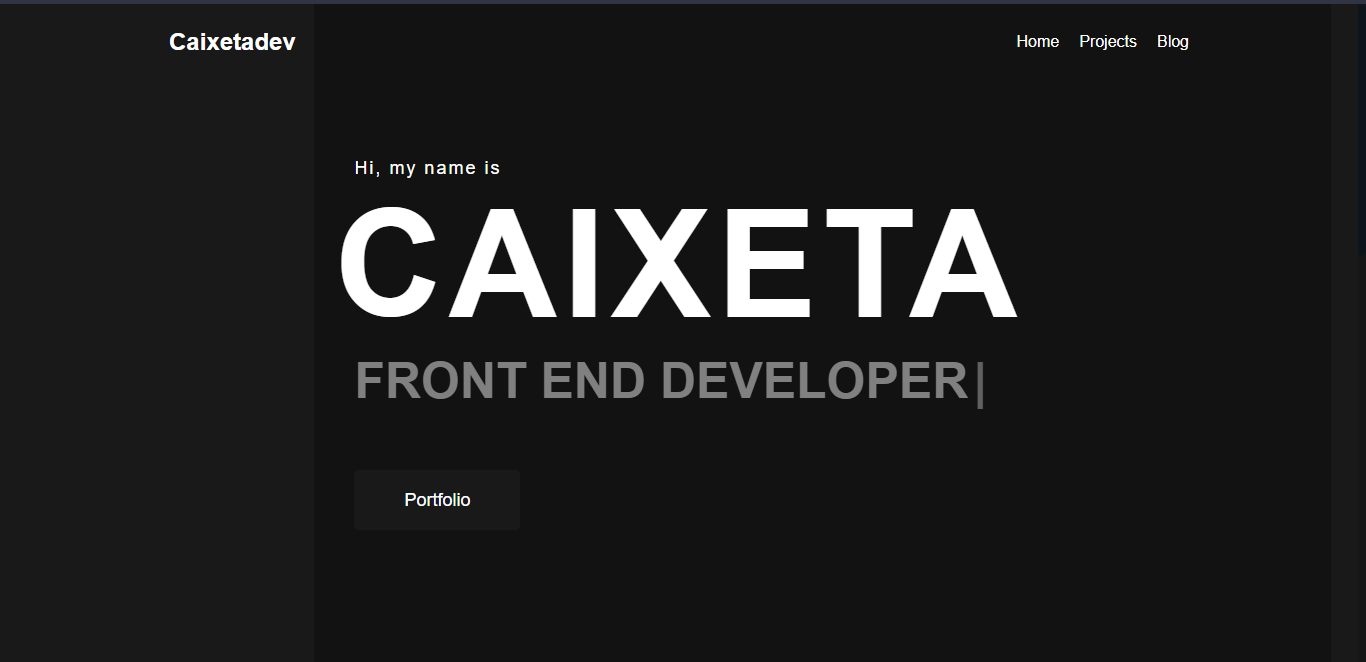
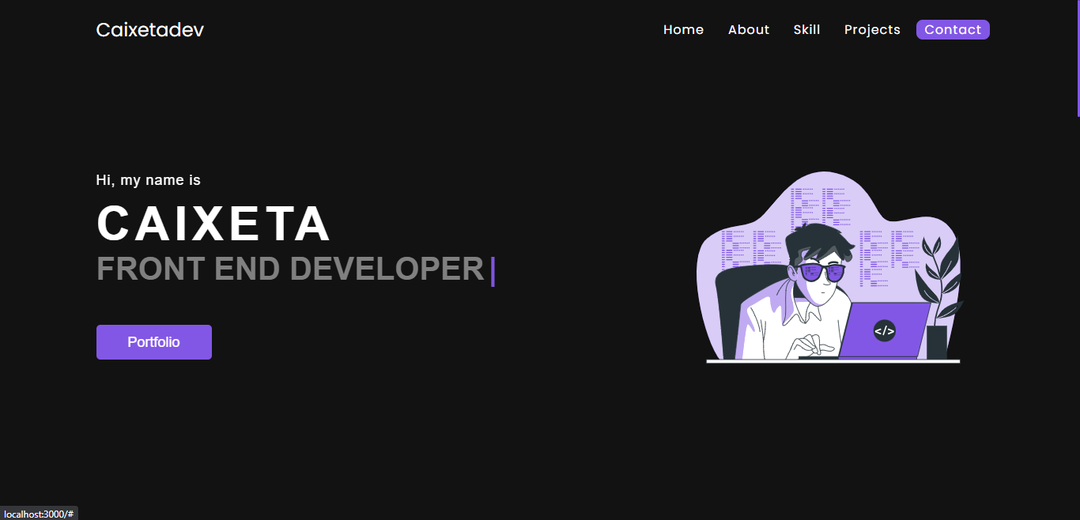
mudando foto do readme

diff --git a/src/components/Sections/About/index.tsx b/src/components/Sections/About/index.tsx
@@ -1,13 +1,13 @@
 /* eslint-disable react/no-unescaped-entities */
 import { Container } from "../../../styles/global";
 import SectionTitle from "../../SectionTitle/inde";
-import { SectionAbout } from "./style";
+import { Content, SectionAbout } from "./style";
 
 export default function About() {
   return (
     <SectionAbout id="about">
       <Container>
-        <div className="conteudo">
+        <Content>
           <SectionTitle title="About" />
           <p data-aos="fade-up">
             Hi, I'm Rafael Caixeta, I live in Brazil and I'm 18 years old. I
@@ -17,7 +17,7 @@ export default function About() {
             Language. At the moment I'm just studying but soon I intend to start
             working in the Front End area.
           </p>
-        </div>
+        </Content>
       </Container>
     </SectionAbout>
   );

diff --git a/src/components/Sections/HomePortfolio/index.tsx b/src/components/Sections/HomePortfolio/index.tsx
@@ -30,13 +30,7 @@ export default function Home(): JSX.Element {
           <h2 ref={h2El}>FRONT END DEVELOPER</h2>
           <a href="#projects">Portfolio</a>
         </Content>
-        <Image
-          // data-aos="zoom-in"
-          src={HomeImage}
-          alt="oi"
-          width="400"
-          height="500"
-        />
+        <Image src={HomeImage} alt="oi" width="400" height="500" />
       </Container>
     </SectionHome>
   );

diff --git a/src/components/Sections/About/style.ts b/src/components/Sections/About/style.ts
@@ -5,8 +5,10 @@ export const SectionAbout = styled.section`
   height: 40rem;
   padding-top: 11rem;
   clip-path: polygon(0 15%, 100% 0, 100% 85%, 0% 100%);
+`;
 
-  & .conteudo p {
+export const Content = styled.div`
+  p {
     line-height: 4rem;
     margin-top: 1rem;
     font-size: 1.6rem;
